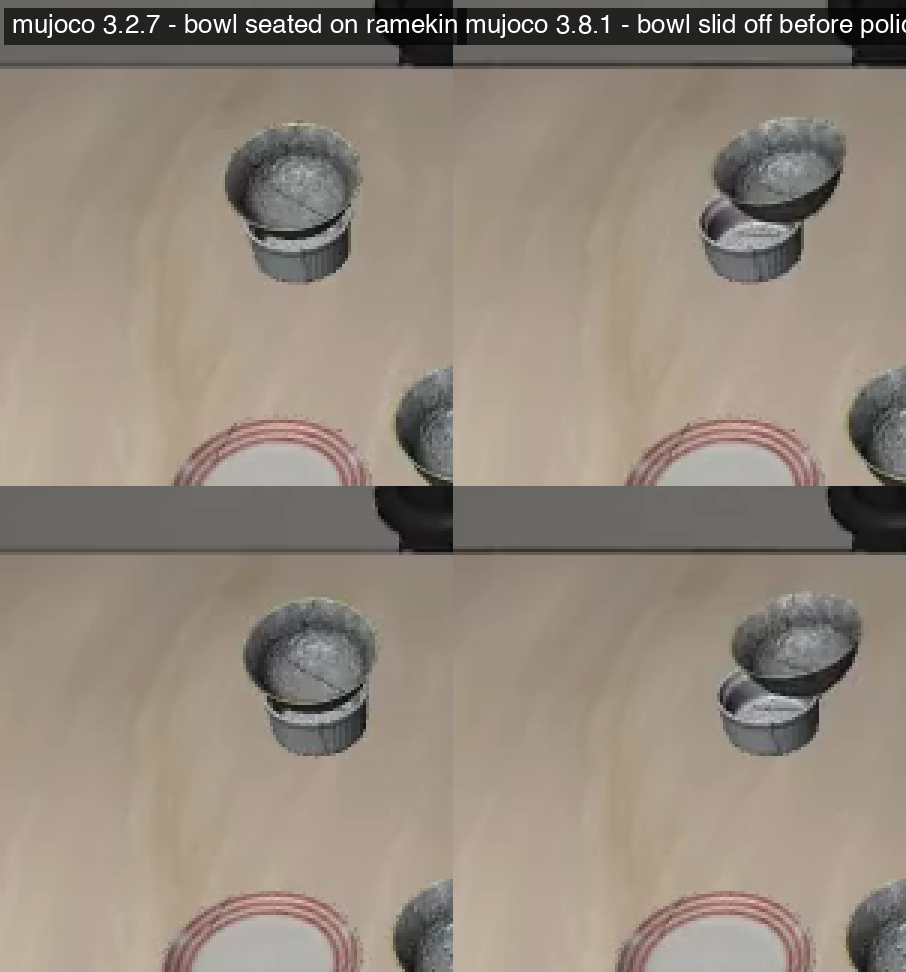
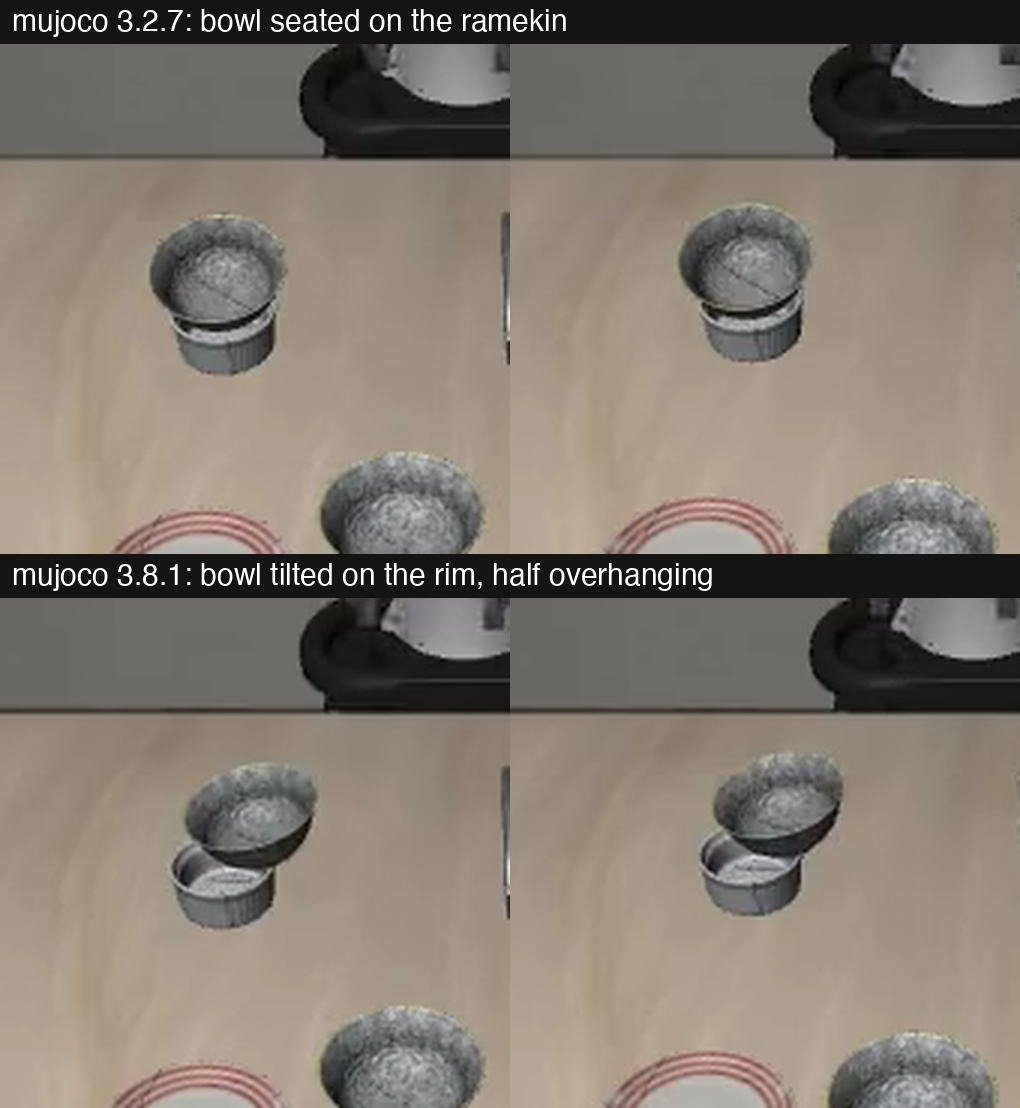
8/9：task5 zoom 主证图重制——上下排版（上 3.2.7 / 下 3.8.1，ep0/ep1 第 5 帧碗区），标注措辞同步 issue 草稿改 "tilted on the rim, half overhanging"，修掉旧版右缘截断；生成脚本 make_task5_zoom_figure.py 入仓（自包含：ffmpeg 抽帧+裁剪+标注）。同文件顺带入库 8/7 mj327 判读补档与素材行订正（Rick 先前未提交改动）

diff --git a/scripts/make_task5_zoom_figure.py b/scripts/make_task5_zoom_figure.py
@@ -1,0 +1,65 @@
+#!/usr/bin/env python3
+"""Build task5_init_drift_zoom_labeled.png: zoomed bowl-region comparison of the
+task-5 initial state under healthy (3.2.7) vs broken (3.8.1) mujoco physics.
+
+Layout: two full-width labeled bands, top = mujoco 3.2.7, bottom = 3.8.1; each
+band holds frame-5 crops of the same two episodes (identical init layouts across
+versions, so columns pair up). Frame 5 is before the policy has moved anything.
+
+Needs ffmpeg on PATH and the eval videos under results/failure_videos/.
+"""
+import subprocess
+import tempfile
+from pathlib import Path
+
+from PIL import Image, ImageDraw, ImageFont
+
+ROOT = Path(__file__).resolve().parent.parent / "results" / "failure_videos"
+OUT = ROOT / "task5_init_drift_zoom_labeled.png"
+
+FRAME_IDX = 4               # 5th frame, 0-based
+CROP = (25, 85, 195, 255)   # bowl + ramekin window in the 360x360 agentview
+SCALE = 3
+EPS = [0, 1]
+FONT = "/System/Library/Fonts/Helvetica.ttc"  # swap for a DejaVu path on Linux
+
+BANDS = [
+    ("mj327_task5", "mujoco 3.2.7: bowl seated on the ramekin"),
+    ("mj381_task5", "mujoco 3.8.1: bowl tilted on the rim, half overhanging"),
+]
+
+
+def frame(video: Path, idx: int, dst: Path) -> Image.Image:
+    subprocess.run(
+        ["ffmpeg", "-v", "error", "-i", str(video),
+         "-vf", f"select=eq(n\\,{idx})", "-vframes", "1", "-y", str(dst)],
+        check=True,
+    )
+    return Image.open(dst)
+
+
+def main() -> None:
+    cell = (CROP[2] - CROP[0]) * SCALE
+    band_h = 44
+    canvas = Image.new("RGB", (cell * len(EPS), (band_h + cell) * len(BANDS)), "black")
+    draw = ImageDraw.Draw(canvas)
+    font = ImageFont.truetype(FONT, 30)
+
+    with tempfile.TemporaryDirectory() as td:
+        y = 0
+        for run, label in BANDS:
+            draw.rectangle([0, y, canvas.width, y + band_h], fill=(20, 20, 20))
+            draw.text((12, y + band_h // 2), label, font=font, fill="white", anchor="lm")
+            y += band_h
+            for i, ep in enumerate(EPS):
+                im = frame(ROOT / run / f"eval_episode_{ep}.mp4", FRAME_IDX, Path(td) / "f.png")
+                im = im.crop(CROP).resize((cell, cell), Image.LANCZOS)
+                canvas.paste(im, (i * cell, y))
+            y += cell
+
+    canvas.save(OUT)
+    print(f"saved {OUT} {canvas.size}")
+
+
+if __name__ == "__main__":
+    main()

diff --git a/results/failure_videos/ANNOTATION_zh.md b/results/failure_videos/ANNOTATION_zh.md
@@ -67,11 +67,11 @@
 
 ## 补档（2026-08-05 午间）：双版本 task5 视频对照 + 「双碗同抓」物理成因定位
 
-**素材**：同 checkpoint（30k）、同 official500 协议、仅 MuJoCo 版本不同的 task5 全量视频两组（episode 编号一一对应同布局）：
+**素材**：同 checkpoint（30k）、同 official500 协议、仅 MuJoCo 版本不同的 task5 视频两组（各为前 10 集，默认录像上限；episode 编号一一对应同布局）：
 
 - `mj327_task5/`：8/5 凌晨 3.2.7 复跑（服务器 `smolvla_…_official500_mj327_20260804`），task5 = 40/50（80%）
 - `mj381_task5/`：7/30 深夜 3.8.1 原跑（服务器 `smolvla_…_official500_20260730`），task5 = 14/50（28%）
-- 抽帧对照图（第 5 帧，策略尚未有效行动）：`task5_initframe_327top_381bot.png`（六格总览）、`task5_bowl_zoom_327left_381right.png`（碗区放大）；英文标注版 `task5_init_drift_grid_labeled.png` / `task5_init_drift_zoom_labeled.png`（上游 issue 主证图，Rick 8/5 拍板）
+- 抽帧对照图（第 5 帧，策略尚未有效行动）：`task5_initframe_327top_381bot.png`（六格总览）、`task5_bowl_zoom_327left_381right.png`（碗区放大）；英文标注版 `task5_init_drift_grid_labeled.png` / `task5_init_drift_zoom_labeled.png`（上游 issue 主证图，Rick 8/5 拍板；zoom 标注版 8/9 重制为上下排版——上 3.2.7 / 下 3.8.1，各取 ep0/ep1 第 5 帧碗区裁剪，标注措辞同步 issue 草稿改为 "tilted on the rim, half overhanging"，生成脚本 `scripts/make_task5_zoom_figure.py`）
 
 **关键观察（Rick 肉眼判读定稿）**：3.8.1 下**开局碗即已滑落**——以异常角度斜靠在 ramekin 右上方、半脱离；3.2.7 下碗正常（略斜）坐于 ramekin 上。即任务前提「bowl **on** the ramekin」在 3.8.1 物理下开局即被破坏：视觉 OOD + 抓取几何全变。这为本表 H2 的「双碗同抓」子模式补上物理成因——碗与 ramekin 斜靠咬合，「只抓上面那只」自然变难。
 
@@ -80,3 +80,11 @@
 **同物理修复验证（8/5 午后，因果环终局闭合）**：官方 init 文件本把碗**悬空存于 ramekin 上方 11cm**（`task5_raw_init_floating.png`，首次可视化——落座 settle 发生在 reset 内部、相机开录前，视频第 0 帧即终局，故砸落过程历来无人目击）。座姿在 3.8.1 下完全稳定（50 布局再 settle 额外滑移 0.00cm）→ 据此重生成 pre-settled init states（settle 物体 + 钉住臂姿 + 零速度）→ **3.8.1 物理不动、只换 init 文件重跑 task5：42/50 = 84%**（对照：3.8.1+官方 init 28%，3.2.7+官方 init 80%）——**塌方成分 100% 为开局前提破坏，操作期物理差异可忽略**。证据图 `task5_reseat_fix_same_physics.png`（同物理只换 init 的第 5 帧对比）；验证跑视频 `mj381_reseat_task5/`（ep 编号与 mj381/mj327 两组对应同布局）。
 
 **π0.5 对照判读（8/5 午后，考古 + 抽帧 + Rick 看片）**：π0.5（`lerobot/pi05_libero_finetuned`，HF 创建于 2025-10-01——mujoco 3.3.6/3.3.7 健康时代；2026-07-29 的修改系 v044 格式重打包，非重训）在 7/30 的 3.8.1 评测中吃的是**同一份坏 init**（抽帧核验：第 0 帧碗同样滑落斜靠）——task5 仍 43/50。**「免疫」= 策略鲁棒性，不是初始状态豁免**（备选假说「π0.5 的 init 不同」被抽帧排除）。Rick 看片判读：保存 10 段中唯一失败 **ep6 挂在放置精度**（前伸略多、搁盘缘判负，H3 型），抓歪碗全程无碍；全跑失败集 ep 6/14/15/24/25/34/39（7/50），失败模式与前提破坏无关。**同一份坏 init，两策略失败谱完全不同**：SmolVLA 被专杀在 H2（斜靠咬合 → 双碗同抓），π0.5 只剩版本无关的 H3 精度散布。视频 `pi05_mj381_task5/`。
+
+## 补档（2026-08-07）：mj327_task5 健康物理失败判读（Rick 判读）
+
+**逐集账**（服务器 `eval_info.json` 核对）：task5 @3.2.7 共 **10 败** = ep 0, 1, 9, 18, 24, 32, 37, 38, 39, 44。有录像的仅 ep0–9（默认每任务录前 10 集），其中失败 **3 集 = ep0、ep1、ep9**——即 `mj327_task5/` 里可判读的全部失败；**其余 7 败（ep18/24/32/37/38/39/44）无录像、未判读**。
+
+**Rick 判读（3 段全看）**：2 集抓取失败（没把碗抓起来）+ 1 集放置偏远（碗放在盘子边上判负）。逐集对应（ep0/ep1/ep9 各属哪类）待 Rick 补充。
+
+**意义**：健康物理下 task5 的已判读失败全属接触几何（抓取/放置），无拿错碗，与 t9 全失败判读（8 抓取 + 1 放置）同谱。判读覆盖 3/10；如需收口，可按 t9 的做法（`EVAL_RENDER_ALL_N` 全录像重跑）补齐其余 7 败的录像。
